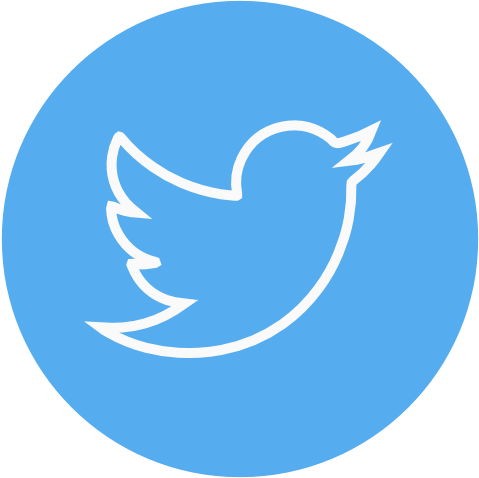
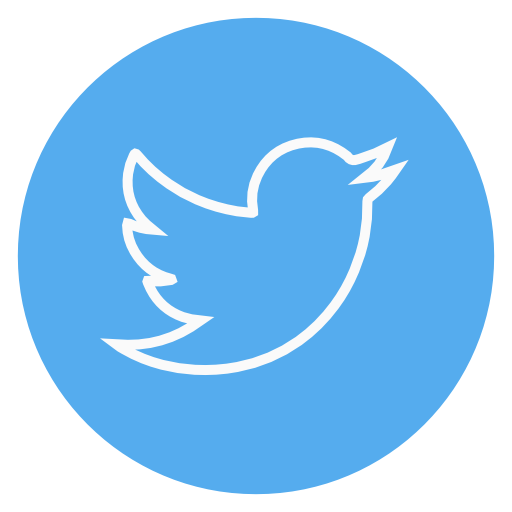
LISTO
LISTO!

Changed region(s): [[0.0, 0.0, 1.0, 1.0], [0.1754, 0.2343, 0.8184, 0.7615]]

diff --git a/css/style.css b/css/style.css
@@ -954,7 +954,8 @@ html .card .slide-up i:hover, body .card .slide-up i:hover {
 .flickr:hover{
   background-color:#FF0084;
 }
-footer {
+footer 
+{
   background: transparent;
   bottom: 0;
   left: 0;

diff --git a/index.php b/index.php
@@ -257,20 +257,18 @@ echo str_replace("xxx", $imgf, $pagina_inicio);
 </div>
 </body>
 <footer width="100%" height="100%">
-  <div align="center">
-		<a align="center" height='75px' width='75px' href="https://www.facebook.com/InefablesRock/?fref=ts">
-		  <img style="margin-left:35%;" src='imagenes/footer/facebook.png' height='75px' width='75px'  style="float:right;">
+		<a href="https://www.facebook.com/InefablesRock/?fref=ts">
+		  <img style="margin-left:7%;" src='imagenes/footer/facebook.png' width='10%'  style="float:right;">
 		</a>
     <a href="https://twitter.com/MusicaInefables" target="_blank">
-		<img style="margin-left:2%;" src='imagenes/footer/twitter.png' height='75px' width='75px'  style="float:right;">
+		<img style="margin-left:2%;" src='imagenes/footer/twitter.png' width='10%'  style="float:right;">
 	</a>
     <a href="https://www.instagram.com/inefablesmusica/" target="_blank">
-		<img style="margin-left:2%;" src='imagenes/footer/instragram.png' height='75px' width='75px'  style="float:right;">
+		<img style="margin-left:2%;" src='imagenes/footer/instragram.png' width='10%'  style="float:right;">
 	</a>
     <a href="https://www.spotify.com" target="_blank">
-		<img style="margin-left:2%;" src='imagenes/footer/spotify.ico' height='75px' width='75px'  style="float:right;">
+		<img style="margin-left:2%;" src='imagenes/footer/spotify.ico' width='10%'  style="float:right;">
 	</a>
-  </div>
 </footer>
 
 <script src='http://cdnjs.cloudflare.com/ajax/libs/jquery/2.1.3/jquery.min.js'></script>
